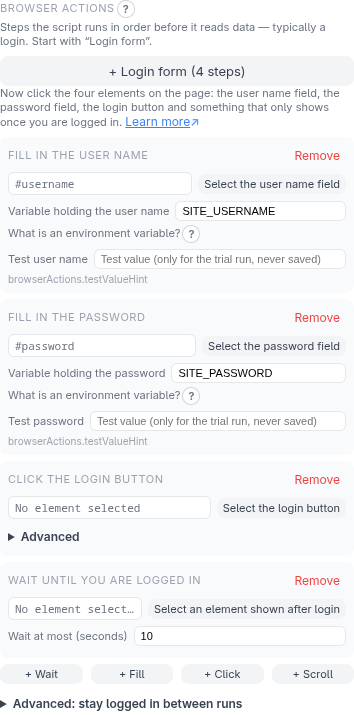
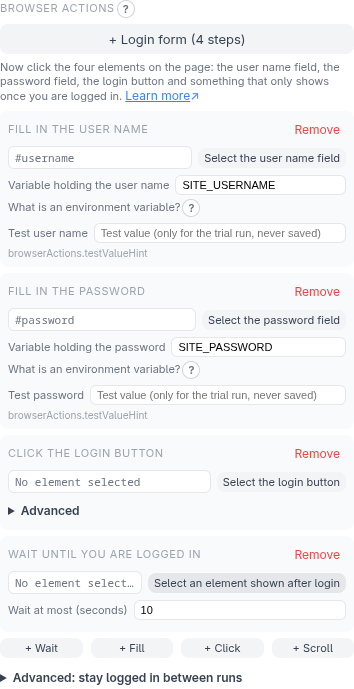
fix(popup): style the combined select like the Settings ones, keep a gap between the browser-action buttons, show the config-file checkbox directly, drop the last browser-actions paragraph (#354)

diff --git a/extension/popup/screens/settings.html b/extension/popup/screens/settings.html
@@ -27,16 +27,11 @@
     <input type="checkbox" id="toggle-include-output-file" />
     <span data-i18n="idle.outputFileToggle"></span>
   </label>
-  <details class="advanced-disclosure" id="external-config-advanced" data-advanced="external-config">
-    <summary data-i18n="settings.externalConfigAdvanced"></summary>
-    <div class="advanced-disclosure-body">
-      <label class="output-settings-toggle">
-        <input type="checkbox" id="toggle-external-config" />
-        <span data-i18n="idle.externalConfigToggle"></span>
-        <span class="help-host" data-help="help.editableConfig.overview" data-doc="editableConfig"></span>
-      </label>
-    </div>
-  </details>
+  <label class="output-settings-toggle">
+    <input type="checkbox" id="toggle-external-config" />
+    <span data-i18n="idle.externalConfigToggle"></span>
+    <span class="help-host" data-help="help.editableConfig.overview" data-doc="editableConfig"></span>
+  </label>
   <!-- Issue #292: skip the companion's trial run — the script is returned
        right away, without having been run against the live page. -->
   <label class="output-settings-toggle">

diff --git a/extension/popup/popup.css b/extension/popup/popup.css
@@ -1134,3 +1134,13 @@ input.env-var-invalid, input.env-var-invalid:focus { border-color: var(--color-d
 .settings-card .row-label { margin-top: 8px; }
 .format-note { margin: 4px 0 0; font-size: 11px; color: var(--color-text-muted); }
 #settings-preferences-section .row-label { margin-top: 12px; }
+
+/* Issue #354 follow-up: a select next to an action button looks like the Settings one, and the
+   browser-actions buttons keep a small gap (the login-form button used to touch the row below). */
+.actions select {
+  flex: 1; min-width: 0; max-width: 100%; border: 1px solid var(--color-border-input); border-radius: var(--radius-md);
+  padding: 5px 8px; font-size: 12px; font-family: inherit; background: var(--color-surface); color: var(--color-text);
+  outline: none;
+}
+.actions select:focus { border-color: var(--color-primary); box-shadow: var(--focus-ring); }
+#browser-actions-section .actions { margin: 6px 0; }

diff --git a/extension/popup/global-settings-ui.js b/extension/popup/global-settings-ui.js
@@ -13,7 +13,6 @@ const log = createLogger('SF:Popup');
 const { getGlobalSettings, updateGlobalSettings } = require('../shared/global-settings');
 
 const { STATES } = require('./api-config');
-const { autoOpenAdvanced } = require('./advanced-disclosure-ui');
 
 const { getAccessKey, setAccessKey } = require('../shared/companion-config');
 
@@ -41,7 +40,6 @@ function renderSettingsScreen(bridge) {
   if (outputFileToggle) outputFileToggle.checked = settings.includeOutputFile;
   const externalConfigToggle = document.getElementById('toggle-external-config');
   if (externalConfigToggle) externalConfigToggle.checked = settings.externalConfig;
-  autoOpenAdvanced(externalConfigToggle, !!settings.externalConfig); // Issue #407
   const skipVerificationToggle = document.getElementById('toggle-skip-verification');
   if (skipVerificationToggle) skipVerificationToggle.checked = settings.skipVerification;
 

diff --git a/extension/popup/advanced-groups-ui.test.js b/extension/popup/advanced-groups-ui.test.js
@@ -25,7 +25,6 @@ describe('markup: each rare option lives inside its Advanced disclosure', () => 
     ['idle.html', 'input-retry-status-codes', 'retry-status-codes'],
     ['idle.html', 'input-dedup-retention-value', 'dedup-retention'],
     ['idle.html', 'toggle-persistent-session', 'persistent-session'],
-    ['settings.html', 'toggle-external-config', 'external-config'],
     ['modals.html', 'input-field-download-max-size', 'download-limits-container'],
     ['modals.html', 'input-field-download-allowed-types', 'download-limits-container'],
     ['modals.html', 'input-field-name-download-max-size', 'download-limits-flat'],

diff --git a/extension/popup/screens/idle.html b/extension/popup/screens/idle.html
@@ -50,7 +50,6 @@
 
       <div id="browser-actions-section" class="hidden">
         <div class="row-label" data-help-anchor><span data-i18n="browserActions.title"></span><span class="help-host" data-help="help.browserActions.overview" data-doc="browserActions"></span></div>
-        <p class="browser-actions-hint" data-i18n="browserActions.hint"></p>
         <!-- Issue #403: one click adds the four steps of a typical login. -->
         <div class="actions">
           <button id="btn-add-login-flow" class="btn-secondary" type="button" data-i18n="browserActions.addLoginFlowBtn"></button>

diff --git a/CLAUDE.md b/CLAUDE.md
@@ -78,7 +78,7 @@ docs/
 - **esbuild bundling; "Load unpacked" points at `extension/dist/`** (Issue #389): the extension is no longer loaded straight from its source folder. `extension/build.js` (`npm run build`, `npm run build:watch`, plus `--channel release` and `--outdir <dir>` for `install/build-bundle.sh`) bundles four entry points — `popup/popup.js` (side panel), `content/content-script.js` (isolated world, every frame; `shared/logger.js` is bundled in, so the manifest no longer lists it), `content/api-capture.js` (the `"world": "MAIN"` recorder, `document_start`) and `background/service-worker.js` — as `iife` for Chromium 114+ into `dist/<same relative path>`, source maps beside them, and copies the static files (`manifest.json`, `popup/popup.html`, `popup/popup.css`, `popup/screens/*.html`) to the same relative paths, so `chrome.runtime.getURL('popup/screens/idle.html')` and the manifest paths are unchanged. `dist/` is git-ignored; Jest, `tsc` and the e2e harness treat it as build output (`modulePathIgnorePatterns`, `exclude`). **What the bundler replaced:** every module used to carry dual-environment boilerplate so the same file ran as a classic `<script>` (shared global scope) and under Jest (CommonJS) — an IIFE assigning one `self.SFXxx` global, a `typeof require !== 'undefined' ? require(...) : self.SFXxx` shim per import, a `typeof module`/`self` export footer, a 56-line `<script>` list in `popup.html`, and `classic-script-loading.test.js` guarding the top-level-name-collision bug class that came with it. All of that is gone: a module is now plain CommonJS (`const { x } = require('./y')`, `module.exports = { ... }`), `popup.html` has one `<script src="popup.js">`, and Jest keeps running the sources directly. No behavior change. **The three explicit replacements for what used to be environment sniffing:** `i18n/i18n.js` `require`s the three dictionaries statically (inlined into the popup bundle, loaded identically in Jest — no fetch, no `chrome.runtime.getURL`); `popup.js`'s `loadScreenPartial` and `content/api-capture.js`'s fetch/XHR patching check `process.env.NODE_ENV === 'test'` (Jest sets it, the build `define`s it to `"production"`, so the code is dead-branch-free in the bundle and `process` never exists at runtime — never reference `process` for anything else). **Release channel** (Issue #352): `shared/build-config.js` derives `CHANNEL` from `process.env.SF_CHANNEL`, which `build.js` always `define`s (`"development"` by default, `"release"` for `--channel release`); `install/build-bundle.sh` builds the release channel into a temp dir (`npm ci` + `node build.js --channel release --outdir …`, then ships the bundle without `.map` files) instead of `sed`-rewriting a source line, and `build.js` fails the build if a release build did not actually produce the release constant. `shared/companion-url-policy.test.js` builds the real module with each channel to prove it. **Consequences for contributors:** after editing extension code run `npm run build` (or leave `build:watch` running) and reload the extension at `chrome://extensions`; there are no page-level globals any more (`self.SFXxx`, `SFTheme`, a popup's `_state`) — a real-browser check that needs to reach into the popup must go through the DOM, `chrome.storage` or Playwright routes, not `page.evaluate(() => SFFoo…)`; a new module needs no `popup.html` edit, just a `require`. TypeScript conversion stays a separate, file-by-file follow-up.
 - **Monitoring / Hardening in plain language** (Issue #399, UX audit finding 4): the Monitoring section is a "set and forget" feature for scripts that run repeatedly and unattended, but nothing said so, the five hardening checks were bare labels, and the Warning/Error toggle was explained only by a hover tooltip in terms of exit codes. **Labels and help only — no change to the wire format or the generated scripts** (the wire severities stay `Warning`/`Error`; only what the buttons say changed). A one-sentence **intro** (`idle.monitoringIntro`: only useful if you run the script again and again, e.g. every night); a **"Checks after every run"** heading whose "?" (`help.hardening.severity`) explains severity in plain words — **"Warn me"** (the run finishes, a message is printed) vs. **"Stop the run"** (marked as failed so a scheduler/monitor notices; exit code 2, an unexpected crash is 1) — which replaces the four hover-only `…SeverityWarning/ErrorTitle` tooltips (removed, as is the `title` attribute; the dynamic null-rate row never had one); a **"?" popover per check** (`help.hardening.noResult|nullRate|baseline|blocking|requiredFields`, one sentence of purpose plus an example) on the check's own toggle/heading; **thresholds as sentences** — "Trigger if there are [20] % fewer rows than in the last run" (static, `.hardening-sentence`) and, in each dynamic null-rate row, "[Preis ▾] is empty in more than [50] % of the rows" (`idle.hardeningNullRateMiddle/After`; the row now wraps), with the existing defaults (20 % / 50 %) unchanged; the blocking check's two rarely needed signals (**min. response length** as "Page shorter than [ ] bytes (optional)" and **block phrases**) sit under an **Advanced** disclosure (`<details data-advanced="hardening-blocking">`, the #396 component, collapsed by default and remembered) with one popover (`help.hardening.blockingAdvanced`: "1000 bytes is about one paragraph", phrases such as "Access Denied"); the blocking toggle reads "Check whether the site blocks the script". **"Recommended checks"**: `popup/hardening-presets.js` (pure, `@ts-check`) `applyRecommendedHardening(hardening, fieldNames)` → `{ hardening, applied, needsFields }` switches on **"empty result" as "Warn me"** and **"required field" for the FIRST field only, as "Warn me"** — the required-fields check *drops rows* from the output, so it is only suggested for the first field (usually the name/ID that makes a row meaningful), never for all of them (that would silently drop rows whose optional fields are legitimately empty); it **only ever adds** — a check already on, or fields already listed for "required", are left exactly as they are, so a second click changes nothing — and without fields only "empty result" is set and the note says why the rest is missing. Wired in `settings-panel-ui.js` (`#btn-hardening-recommended`, a note `#hardening-recommended-note` saying what was switched on; the button has its own "?" `help.hardening.recommended`); the baseline-drop check was deliberately *not* added to the preset (the issue names "empty result" + required fields). Covered by `hardening-presets.test.js` (the preset incl. the resulting wire checks through `buildHardeningConfig`), `hardening-presets-ui.test.js` (the button, the note, the labels, sentences and the Advanced disclosure against the real `idle.html`) and `e2e/examples/issue-399-hardening-plain-language-check.js` (intro/heading/severity wording, one popover per check with an example, the preset, **the real `/generate` request captured from the network carries exactly `noResult` + `requiredFields[first field]` as warnings**, Advanced collapsed, de/es, 280/320/400 px).
 - **Bundled user documentation, "Learn more" links and one-line hints** (Issue #354 Part B): the long explanations moved out of the side panel into `docs/user/` (Part A), and the panel now links to them **offline**. **Build** (`extension/docs-build.js`, called from `build.js`, rebuilt on change in `build:watch`): `buildDocs({ docsDir, outdir })` turns `docs/user/*.md` into `<outdir>/docs/<page>.html` with the `docs-template/docs.css` stylesheet (light/dark via `prefers-color-scheme`, a navigation of all pages, **no script** — an MV3 extension page may not run inline script) and copies `images/`; it uses **`marked`** (a devDependency, ES-module only, hence `await import('marked')` and a tiny CLI `node docs-build.js <docsDir> <outdir>` that the Jest test runs in a real Node process). Heading ids follow GitHub's slug rule (`slugify`, also what `e2e/screenshots/check-docs.js` now imports, with `-1`/`-2` for repeats); `.md` links become `.html` (anchors kept), a link out of `docs/user/` (the developer docs the README mentions) is shown as plain text since it isn't shipped, and **a link to a missing page, anchor or image fails the build** instead of shipping a dead link. Page order is `PAGE_ORDER` (new pages are appended alphabetically). **Build robustness**: a one-off `npm run build` is assembled in `dist.building/` and swapped into `dist/` only when every step (bundles, static files, docs) succeeded, so a failing step — typically the docs build on a checkout where `npm install` was not run after `marked` was added — leaves the previous working `dist/` in place instead of the half-written one it used to produce (manifest and popup.html but no popup.js: the side panel then loads forever); `--docs-dir <dir>` points the docs step elsewhere (used by the tests); watch mode keeps writing in place and only logs a docs failure. A missing `marked` fails with a message that says to run `npm install` in `extension/`. The pages are served from the extension's own origin (`chrome-extension://<id>/docs/…`), so nothing external is ever fetched — the e2e check records every request of a docs tab and asserts none leaves the extension. **Release bundles**: they take the extension from `dist/` (so the HTML pages are inside it) and `install/build-bundle.sh` additionally copies `docs/user/` (Markdown + images) to `docs/` at the bundle root; `INSTALL.md` says so. **"Learn more"**: `popup/docs-links.js` (`@ts-check`) is the **one table** `key → "page#anchor"` (`DOC_TARGETS`), `resolveDocTarget(key)` returns `docs/<page>.html#anchor`; markup says `<a class="learn-more" data-doc="<key>" href="#" data-i18n="common.learnMore"></a>` (inside a hint: `<p><span data-i18n="…Hint"></span> <a …></a></p>`, since `data-i18n` replaces an element's whole content), DOM built in JS uses `learnMoreHtml(key)`, and a help popover gets the link when its host carries `data-doc="<key>"` (`helpHostHtml(key, docKey)` for built hosts; the env-var note does this). `popup/docs-links-ui.js`: `initDocsLinks()` gives each link its real `chrome.runtime.getURL(...)` address (hover / middle click) and a delegated click (`wireDocsLinkEvents`, wired once) opens it with `chrome.tabs.create` — no new permission, `tabs` was already declared; `popup.js` runs `initDocsLinks()` next to `initHelpPopovers()` (static translation pass and the end of every `render()`). **The registry is enforced both ways** by `docs-links.test.js`: every target must exist as a page + heading of `docs/user` (a renamed heading breaks exactly this table, not the panel), every key used in the HTML/JS must be registered, and **every registered key must be used** (no dead targets). **Hints, second pass (explanations only behind the "?")**: the first pass shortened every long `*Hint` to one line; the maintainer's feedback then asked for *one title per control and every explanation behind its "?"*, so the static hint paragraphs are **gone** from the panel: each moved into a `help.<area>.<field>` popover (de/en/es, text up to ~320 characters; the old `*Hint` keys were deleted) with `data-doc` for "Learn more" — proxy, pause, retry, both robots.txt options, duplicates (key fields + the remembered-keys file), change detection, the output layouts, output format and its flattening note, skip the trial run, editable config file, script name, account/access key/developer, combined/blocks, text filter, transform and combine/split dialogs, the Monitoring section's intro (a "?" in the section header; the header's click handler ignores clicks on it and keys on the "?" itself), the API bootstrap/cursor/Link first-page notes. Short status/instruction lines stay as `*Hint` (an empty list, "click the four elements now", `blocksMinCountHint`, errors with a next step, `toast.*`); `hint-length.test.js` keeps those short. **The Settings screen** was restructured the same way: Preferences (output format, preview, full file, skip trial run, editable config under Advanced) and the default script name stay open; **Output layouts, Transformation presets, All saved configurations, Companion connection (account, access key, developer options) and the glossary are collapsed cards** (`details.settings-card`, remembered per `data-advanced` id: `settings-layouts|presets|configs|connection|glossary`); the connection card opens itself when the companion asks for a login (`account-ui.js`). The native output-format `<select>` (grey, fixed width, it ran over the edge) now shares the text-input look (`.output-settings-row select`) and shrinks with the panel; preset names are small and regular instead of bold. The first-pass detail moved onto the matching docs page (pause example and robots.txt behaviour in `network-settings.md`, the skip-the-trial-run and editable-config-file sections, the key-file and key-field details of duplicates, the text filter in `modes.md`, the password/token note in `authentication.md`), so nothing was lost. Texts that change what a user must do stay as they were (errors with a next step, `toast.*`, the login-flow instructions, `persistentSessionHint`). `i18n/hint-length.test.js` fails when a `*Hint` grows back over **160 characters in English / 190 in German / 200 in Spanish** — reword short and put the explanation on the page. **Language**: the docs stay English (the German version is a separate, later piece of #354); only the link text (`common.learnMore`) is de/en/es. Covered by `docs-build.test.js` (ids, link rewriting, the failure cases, the real docs build), `docs-links.test.js`, `docs-links-ui.test.js` (address, click, unknown key, popover link), `hint-length.test.js` and `e2e/examples/issue-354-bundled-docs-check.js` (real extension: a hint link and a popover link open the bundled page in a new tab with heading, image and navigation, no request leaves the extension, the retry hint is one line and links to its section, "Mehr erfahren" in German, no overflow at 320/400 px, a release-channel build contains `docs/`).
-- **Terminology pass, Advanced groups, glossary** (Issue #407, UX audit findings 13–18 and 20): **labels and grouping only — wire format, companion and generated scripts unchanged** (the wire still says `blueprint`, `hardening`, `discovery`, `preflight`, `deduplication`; the companion's own English error texts keep those words too, they are not UI). **Names** (all in `de`/`en`/`es`, decided with the maintainer; i18n *keys* stayed, only values changed): *Output blueprint* → **Output layout** / *Ausgabe-Layout* / *Diseño de salida* (a Spanish word with masculine agreement — "eliminado/guardado"); *Hardening* → **Safety checks** (*Sicherheitsprüfungen*, *comprobaciones de seguridad*) incl. the saved-output "Test safety checks" button; the *Monitoring* section → **Alerts & safety checks** (*Benachrichtigungen & Prüfungen*, *Avisos y comprobaciones*); *Preflight* → **Skip if the page hasn't changed**; *Browser discovery* / *Discovery URL* → **Collect from the page (browser)** / **Page to open** (the value-list source "List from another request" is #404's); *Deduplication by key field(s)* → **Remove duplicates**. Blanket string replacement in the dictionaries collided once (the *transform preset* "Nombre de la plantilla" in `es` was also hit) — when renaming a term, search for its other senses first. **Explanations**: new popovers `help.outputLayout.overview` (next to the output-layout select; the host sits on the row with `data-help-anchor` so the panel opens below the row), `help.safetyChecks.overview`, `help.preflight.overview`, `help.dedup.overview` (the long hints stay for #354 Part B). **Advanced** (the remembered #396 component, one `data-advanced` id each): retry **status codes** (`retry-status-codes`), dedup **retention** (`dedup-retention`), **Reuse session between runs** (`persistent-session`), **Editable config file (XML)** on the Settings screen (`external-config`) and the download **size / content-type limits** in both field modals (`download-limits-flat` / `download-limits-container` — separate ids because the two modals aren't on screen together and a remembered state shouldn't half-sync); the scroll step, click target and the blocking/pagination/discovered-URL/API options were already under Advanced. `autoOpenAdvanced(element, shouldOpen)` (moved from `api-config-shared-ui.js` to `advanced-disclosure-ui.js`) opens a disclosure **once** when its option is in use and re-arms when it isn't, so a returning user's setting is never tucked away and a user who closes it isn't fought; "in use" is a toggle that is on, or — pure, in `popup/advanced-defaults.js` — `retryStatusCodesDiffer(text)` / `dedupRetentionDiffers(dedup)` (a list or retention different from its default; order and separators ignored). **Split field counts from 1**: the modal says "Part (1 = first)" (`modals.splitField.indexLabel`, min 1, default 1) and `partNumberToIndex`/`indexToPartNumber` (`combine-split-fields.js`, the only place with the ±1) convert — `SplitFieldTransform.index` stays 0-based on the wire, in saved/exported configurations and in the generated script, so nothing stored changes meaning. **Glossary**: a remembered `data-advanced="settings-glossary"` disclosure at the top of the Settings screen; `popup/glossary.js` (`@ts-check`, pure) maps `GLOSSARY_ENTRIES` (`{ termKey, helpKey }`) to `{ term, text, example }` using `getHelpEntry`, i.e. **the explanations are the help popovers' own texts** — one place to reword, and an entry whose text is missing in the active language is left out instead of showing a key; `glossary-ui.js` renders it with `textContent` from `renderSettingsScreen`. Entries: output layout, safety checks (`glossary.safetyChecks`), skip-if-unchanged, remove duplicates, list from another request, collect from the page, environment variable. Covered by `advanced-defaults.test.js`, `advanced-groups-ui.test.js` (each rare option sits inside its disclosure, collapsed by default, auto-open once/re-arm), `glossary.test.js` (all three languages, no raw keys, the real `settings.html`), the split cases in `combine-split-fields.test.js`/`popup.test.js`, and `e2e/examples/issue-407-terminology-advanced-check.js` (the labels in en/de/es, retry status codes behind a collapsed Advanced — remembered across a reload, opened by itself for a changed list —, the glossary, and a **real Generate** whose split part 2 yields `4711` and part 1 `Art.-Nr.`); the older `issue-225` and `combine-split-fields` checks were adapted (open the retention disclosure; "Part 2"; the data-preview switch moved to the Settings screen earlier and that check had gone stale).
+- **Terminology pass, Advanced groups, glossary** (Issue #407, UX audit findings 13–18 and 20): **labels and grouping only — wire format, companion and generated scripts unchanged** (the wire still says `blueprint`, `hardening`, `discovery`, `preflight`, `deduplication`; the companion's own English error texts keep those words too, they are not UI). **Names** (all in `de`/`en`/`es`, decided with the maintainer; i18n *keys* stayed, only values changed): *Output blueprint* → **Output layout** / *Ausgabe-Layout* / *Diseño de salida* (a Spanish word with masculine agreement — "eliminado/guardado"); *Hardening* → **Safety checks** (*Sicherheitsprüfungen*, *comprobaciones de seguridad*) incl. the saved-output "Test safety checks" button; the *Monitoring* section → **Alerts & safety checks** (*Benachrichtigungen & Prüfungen*, *Avisos y comprobaciones*); *Preflight* → **Skip if the page hasn't changed**; *Browser discovery* / *Discovery URL* → **Collect from the page (browser)** / **Page to open** (the value-list source "List from another request" is #404's); *Deduplication by key field(s)* → **Remove duplicates**. Blanket string replacement in the dictionaries collided once (the *transform preset* "Nombre de la plantilla" in `es` was also hit) — when renaming a term, search for its other senses first. **Explanations**: new popovers `help.outputLayout.overview` (next to the output-layout select; the host sits on the row with `data-help-anchor` so the panel opens below the row), `help.safetyChecks.overview`, `help.preflight.overview`, `help.dedup.overview` (the long hints stay for #354 Part B). **Advanced** (the remembered #396 component, one `data-advanced` id each): retry **status codes** (`retry-status-codes`), dedup **retention** (`dedup-retention`), **Reuse session between runs** (`persistent-session`), the download **size / content-type limits** in both field modals (`download-limits-flat` / `download-limits-container` — separate ids because the two modals aren't on screen together and a remembered state shouldn't half-sync); the scroll step, click target and the blocking/pagination/discovered-URL/API options were already under Advanced. `autoOpenAdvanced(element, shouldOpen)` (moved from `api-config-shared-ui.js` to `advanced-disclosure-ui.js`) opens a disclosure **once** when its option is in use and re-arms when it isn't, so a returning user's setting is never tucked away and a user who closes it isn't fought; "in use" is a toggle that is on, or — pure, in `popup/advanced-defaults.js` — `retryStatusCodesDiffer(text)` / `dedupRetentionDiffers(dedup)` (a list or retention different from its default; order and separators ignored). **Split field counts from 1**: the modal says "Part (1 = first)" (`modals.splitField.indexLabel`, min 1, default 1) and `partNumberToIndex`/`indexToPartNumber` (`combine-split-fields.js`, the only place with the ±1) convert — `SplitFieldTransform.index` stays 0-based on the wire, in saved/exported configurations and in the generated script, so nothing stored changes meaning. **Glossary**: a remembered `data-advanced="settings-glossary"` disclosure at the top of the Settings screen; `popup/glossary.js` (`@ts-check`, pure) maps `GLOSSARY_ENTRIES` (`{ termKey, helpKey }`) to `{ term, text, example }` using `getHelpEntry`, i.e. **the explanations are the help popovers' own texts** — one place to reword, and an entry whose text is missing in the active language is left out instead of showing a key; `glossary-ui.js` renders it with `textContent` from `renderSettingsScreen`. Entries: output layout, safety checks (`glossary.safetyChecks`), skip-if-unchanged, remove duplicates, list from another request, collect from the page, environment variable. Covered by `advanced-defaults.test.js`, `advanced-groups-ui.test.js` (each rare option sits inside its disclosure, collapsed by default, auto-open once/re-arm), `glossary.test.js` (all three languages, no raw keys, the real `settings.html`), the split cases in `combine-split-fields.test.js`/`popup.test.js`, and `e2e/examples/issue-407-terminology-advanced-check.js` (the labels in en/de/es, retry status codes behind a collapsed Advanced — remembered across a reload, opened by itself for a changed list —, the glossary, and a **real Generate** whose split part 2 yields `4711` and part 1 `Art.-Nr.`); the older `issue-225` and `combine-split-fields` checks were adapted (open the retention disclosure; "Part 2"; the data-preview switch moved to the Settings screen earlier and that check had gone stale).
 - **API mode: JSON-path pickers, popovers, Advanced** (Issue #404, UX audit finding 9): the API_CONFIG screen asked for typed JSON paths (a group's path, the cursor and "has more" paths, the cursor's body slot, the bootstrap token's path) and explained its concepts only partly. **Wire format, generated scripts and companion unchanged.** **Picker, pure** (`popup/json-path-picker.js`, `@ts-check`): `buildJsonPathTree(json, { mode, scopePath })` → `{ nodes, truncated, scopeFound }` and `resolveJsonPath`, producing paths in exactly the runtime syntax (`_PATH_TOKEN_PATTERN`: dot keys, `[n]`; a key containing `.`/`[`/`]` is shown but not selectable since the script can't address it). Three modes: **`leaf`** (a scalar/null is picked — cursor, flag, token; an array is shown through its first item), **`group`** (an object or array is picked; the tree is **rooted at the parent scope's first instance** (`resolveApiGroupScopePath`, the "first instance is the template" rule) so paths come out **relative to the parent**, and arrays are terminal — what is inside a list belongs in a nested group, not in one long path; a scope missing from the JSON is reported, not guessed), **`body`** (like `leaf`, but arrays aren't entered: `isValidBodyPath` forbids `[`). A cap of 400 nodes (`truncated`). Source lookup: `findSourceEntry` (by `sourceEntryId`, else the latest with the same URL + method — the lookup "Detect from recording" already used), `parseEntryJson` (says *why* a body can't be offered: `truncated`, `notJson`, `skipped`, `noBody`, `noEntry`; a bare scalar has nothing to pick), `jsonResponseEntries` (successful, parseable recorded responses, the preferred URL first). **UI** (`popup/json-path-picker-ui.js`): a **"Pick from the recording"** button under each path input opens a panel with the tree; a click on a selectable node fills the path and closes it. The picker is **state-driven** — `_state.apiPathPicker = { field, token, status: 'loading'|'chooser'|'tree'|'message', … }`, never persisted — because the cursor and bootstrap sections rebuild their HTML on every state change; a `token` drops a result that arrives after the user closed it, and the button toggles. `field` ∈ `group` / `cursor.nextCursorPath` / `cursor.hasNextPagePath` / `cursor.bodyPath` (the recorded **request** body) / `bootstrap.valuePath` (the recorded response of the token request itself, matched by its URL + method — with no match, a **chooser** over the recorded JSON responses). Group picks write only the modal's path input (plain DOM); cursor/bootstrap picks patch the draft. With nothing recorded, or a truncated/non-JSON/body-less source, the panel says so plainly and typing stays possible; "Detect from recording" stays next to it. For an **embedded-JSON** source there is no recorded response, so a new pull-based message **`GET_EMBEDDED_JSON { scriptSelector }`** (popup → service worker → content script, exactly like `GET_API_CAPTURE_ENTRIES`; `readEmbeddedJson` returns `{ body, truncated, found }`, bodies over 2 MB are reported as truncated, not cut) reads the one `<script>` the config was confirmed against. Wired via `wirePathPickerEvents(bridge, container)` on one stable element per input (the cursor section, the bootstrap section, the group modal) and `renderGroupPathPicker` from `renderApiConfigModals`. **Bug fixed on the way:** `renderApiConfigModals` reset the group modal's inputs on *every* render while it was open (harmless while only typing, which doesn't render), which would have wiped the typed name when the picker loaded — it now resets only on the opening render (`groupModalWasOpen`, since popup.js hides every modal at the start of each render and "just opened" can't be read off the DOM). **Popovers** (#396): `help.apiConfig.urlParts` (what a *variable* part is, on both URL labels), one per value source (`sourceStaticList`/`sourceDiscovery`/`sourceRange`/`sourceBrowserDiscovery`/`sourceBootstrap`, each with an example, next to its radio), `bodyVariable` (what "→ Variable" does), `valueType`; the long `apiBootstrap/apiCursor/apiLink.hint` paragraphs became `help.apiBootstrap/apiCursor/apiLink.overview` (the keys must stay flat `help.<area>.<field>` for the sync test). **Advanced** (the remembered #396 component): the **auth bootstrap**, **cursor pagination** and **Link-header pagination** sections each sit in their own disclosure (`api-bootstrap-advanced`/`api-cursor-advanced`/`api-link-advanced`) whose one-line summary says when it applies; `autoOpenAdvanced` (in `api-config-shared-ui.js`) opens one by itself once the option is on — and the Link one when the recording carried a `rel="next"` header — and re-arms when it's off, never fighting a user who closes it; the embedded-JSON hiding applies to the whole block (`section.closest('details')`). In each value-source card **Value list / List from another request / Range** are up front and **Browser discovery** plus the bootstrap's **Token value** are under "Advanced sources" (`api-source-advanced`, opened while one of them is chosen); a body variable's **value type** sits in its own "Advanced: value type" with a "?" (opened when a non-default type is already set). **Label:** "Discovery endpoint" → "List from another request" (de/es too; the wire kind is still `discovery` — systematic terminology is #407). Covered by `json-path-picker.test.js` (tree → path for all three modes, the syntax round trip through `resolveJsonPath`, scope-relative group paths checked against `resolveApiGroupScopePath`, size cap, source lookup), `json-path-picker-ui.test.js` (loading, picking per field, chooser, no-recording/truncated/not-JSON/no-body/missing-scope messages, the embedded flow), `api-config-guidance.test.js`, `GET_EMBEDDED_JSON` tests in `service-worker.test.js`/`content-script.test.js`, and three real-browser checks with real trial runs — `issue-404-api-cursor-picker-check.js` (cursor paths picked, all seven items scraped), `issue-404-api-bootstrap-picker-check.js` (token path cleared and picked again, fresh token fetched) and `issue-404-api-guidance-check.js` (group path relative to the parent, popovers, Advanced groups, value type); the #220/#224/#321 checks now open their "Advanced" first.
 - **`api-config-ui.js` split into focused modules** (Issue #390, first item of the oversized-modules tracking issue — `content-script.js`, `popup.js`, `saved-configs-ui.js`, `settings-panel-ui.js`/`output-blueprints-ui.js`, `api-config.js` and `scraping-config-builder.js` follow in their own PRs): the 1,967-line API-mode UI module is now `api-capture-ui.js` (recording, searches, candidate/recorded-request lists, confirming a candidate), `api-response-tree-ui.js` (response tree, group + leaf-transforms modals, tree search), `api-parameters-ui.js` (URL parts, parameter-source cards), `api-browser-discovery-ui.js` (the BrowserDiscoverySource editor), `api-request-ui.js` (captured headers, POST body tree + its modal) and `api-config-shared-ui.js` (`patchApiConfigDraft`/`patchApiConfigSource`, the parameter-placeholder picker) — each under 500 lines — with `api-config-ui.js` left as a ~350-line orchestrator (`renderApiConfigScreen`, `confirmApiConfig`, `cancelApiConfig`, `renderApiConfigModals`, `wireApiConfigEvents`) that **re-exports every name it used to export**, so `popup.js`, `idle-screen-ui.js` and the tests import unchanged (`api-config-ui-exports.test.js` pins the surface and that each name is the very function of its module). **A pure move**: every code line is verbatim (verified by comparing the multiset of non-blank lines before and after; only imports/exports and the wiring scaffolding differ), comments move with their code (trimming them is #379), tests stay where they are (moving them is #393). The two oversized wire functions are broken up: `wireApiConfigEvents` (335 lines) became one `wire…Events(bridge)` per module (`wireApiCaptureEvents`, `wireApiResponseTreeEvents`, `wireApiParameterEvents`, `wireApiRequestEvents`) called in the same order, and `wireApiCandidateListEvents` (341 lines in a closure) is a module-level export of `api-capture-ui.js`, which the orchestrator also uses for the tree-search list. The one listener that spanned two areas — `#api-config-parameters`' `change`/`click` — keeps a **single** handler in `api-parameters-ui.js` whose last statement hands over to `handleBrowserDiscoveryChange`/`handleBrowserDiscoveryClick` (`api-browser-discovery-ui.js`), preserving the original if-chain semantics. **Dependency direction** (no cycles, none imports `api-config-ui.js`): shared ← tree, capture, request, browser; browser, capture ← parameters; everything ← orchestrator. **One real bug found and fixed first, in its own commit** (`removeApiTreeNode` was used by the response-tree "Remove" handler but never imported into `api-config-ui.js`; it only worked while every module shared one global scope, so since the esbuild bundling of #389 clicking Remove on an API tree row threw a `ReferenceError` — regression test `api-tree-remove.test.js`). A small throwaway reference check (a `@babel/parser` + `traverse` pass over each file) found it; the split files were verified with the same pass. Covered by the existing popup suite plus `e2e/examples/issue-390-api-config-ui-check.js` (api-nested-and-post fixture: record the POST search, confirm a field with its siblings, remove a row, add/remove a group, open the transforms modal, turn the body's `category` into a new variable, give it a value list, and a **real Generate that requests both categories**); the #220/#224/#321 API-mode checks pass unchanged.
 - **Pagination helpers: derived page-number template, Advanced placement** (Issue #405, UX audit finding 10): the "Page-number URL" kind needed a template with `{url}`/`{page}` and so knowledge of how the site's page URLs look; the "next link" selector had a picker but also a typed field; "Discover additional start URLs" asked for a URL and a selector for a feature most users never need. **Pure derivation** (`popup/pagination-template.js`, `@ts-check`): `detectPageTemplate({ currentUrl, linkHref })` → `{ template, style, usesStartUrl, example }` or `null`. With a clicked link's resolved href (`resolveLinkHref`) the pattern is learned from how it differs from the start URL — **query style**: the one parameter that is the next number (2 when the start URL has none, but then only a conventional name: `page`/`p`/`pg`/`paged`/`pagenum`/`pagenumber`/`pageno`/`seite`/`pagina`/`currentpage`, so `?cat=2` is not page 2; already present → its number + 1) while every other query parameter is identical → `{url}?page={page}` / `{url}&page={page}`, or the start URL with the number replaced by `{page}` when it already has one; **path style**: `/page/2/`, `/seite/2`, `/pagina/2`, `/p/2` appended to the start path (`{url}page/{page}/`) or replacing the start URL's own number. Without a link (or a link that shows nothing) only a **start URL that already says page 1** is recognised (`?page=1`, `/page/1/`; `page=2` or `0` is not — pages 2.. would be wrong). Deliberately conservative: zero-based counters, offsets, several plausible parameters, another host/path, a `#fragment` in the way → `null`, never a guess. The proposal is only ever **applied by a button**, and `proposalAlreadyApplied` keeps the banner away once it is. **`{url}` is now optional in the companion** (`ScrapingPlanValidator.ValidatePageNumberUrlTemplate(urlTemplate, singleStartPage)`, the one companion change; wire format and generated scripts unchanged — the script's `.format(url=…, page=…)` already tolerated it): a start URL that already carries `?page=1` can't be expressed with `{url}` (the page number can't be overridden by appending), so `https://site/list?page={page}` is valid for a **single start page** — but with **several** (`Url` + `AdditionalUrls`, or `DiscoveredUrls`) `{url}` stays required, since a template without it would request the same page N for every start page; the extension mirrors the rule (`currentProposal` in `pagination-ui.js` drops a proposal without `{url}` while additional start URLs exist or discovery is on). **UI** (`popup/pagination-ui.js`, called from `idle-screen-ui.js`/`popup.js`): a proposal **banner** above the kind toggle (`#pagination-suggestion`: "Looks like page numbers are in the URL. Use this pattern?", the template, the example for page 2, **Use this pattern** → kind `pageNumber` + template); the link's address is stored as UI-only `pagination.linkHref` inside the pagination draft (persisted with it, never sent — `buildPaginationConfig` ignores it, asserted by a test), fed by **two pickers**: the existing "next link" pick (`message.attributes.href` — message-router and session-restore both fill it) and the new `selectionKind: 'paginationPageLink'` ("Click a link to page 2 to learn the pattern", stores only the address, warns with `toast.paginationNotALink` for an element without an `href`; `resolveLinkHref('')` is `''`, not the page itself). The "next" link's **typed selector** is an editable detail under a remembered **Advanced** (`pagination-next-link`) with the picked selector shown as a chip; the URL pattern and **Max. pages** get "?" popovers (`help.pagination.urlTemplate`/`maxPages`: what `{page}`/`{url}` are, page 1 is the start page, `{url}` required with several start pages / the safety limit and its earlier stops), replacing the long hint paragraph. **"Discover additional start URLs"** moved, whole, under **Advanced: find start pages automatically** (`#discovered-urls-advanced`, `data-advanced="discovered-urls"`, hidden for API/Combined/Blocks, opened once when the option is already on so a returning user's setting is never tucked away), keeping its pickers, with a one-sentence hint and a popover (`help.discoveredUrls.overview`). `.output-settings-row input[type="number"]` got a width cap (the rows' own number inputs had none and overflowed a 280 px panel once a help host sat in the row). Covered by `pagination-template.test.js` (~40 cases across URL shapes, the round trip through `buildPaginationConfig`), `pagination-ui.test.js` (banner, use, both pickers, the several-start-pages rule, Advanced placement, session restore), .NET `ScrapingPlanValidatorTests` + `PaginationEndToEndTests` (a template without `{url}` through a real run) and `e2e/examples/issue-405-pagination-helpers-check.js` (the new `test-pages/paginated-listing` fixture with `?page=N` and `/blog/page/N/` lists: **real Generate runs scraping all nine items for each of the three start shapes**, popovers, Advanced, de, 280/320/400 px). Found on the way, **not fixed here**: the service worker stores every pick as `pendingSelector` for a closed panel and that write can land *after* the open panel's own `remove('pendingSelector')` (message-router), so a later popup reload occasionally pops a stale field modal — the check clears it before reloading.

diff --git a/docs/user/output.md b/docs/user/output.md
@@ -27,8 +27,7 @@ Notes:
 
 Other output-related preferences in **Settings**: **Show trial-run data
 preview**, **Download the full scraped data file** (the complete trial-run
-output, from the done screen), **Editable config file (XML)** (under **Advanced**,
-see below), and **Skip the trial run** (see below).
+output, from the done screen), **Editable config file (XML)** (see below), and **Skip the trial run** (see below).
 
 ## Skip the trial run
 
@@ -42,7 +41,7 @@ is not available while this is on.
 
 ## Editable config file
 
-**Editable config file (XML)** (under **Advanced**) lets you change a few
+**Editable config file (XML)** lets you change a few
 things *after* generating, without touching the `.py` file or reopening the
 extension: the start URL(s), the output file name, a field's output name (flat
 mode), and the values of a fixed-value-list API parameter. The file doesn't exist
